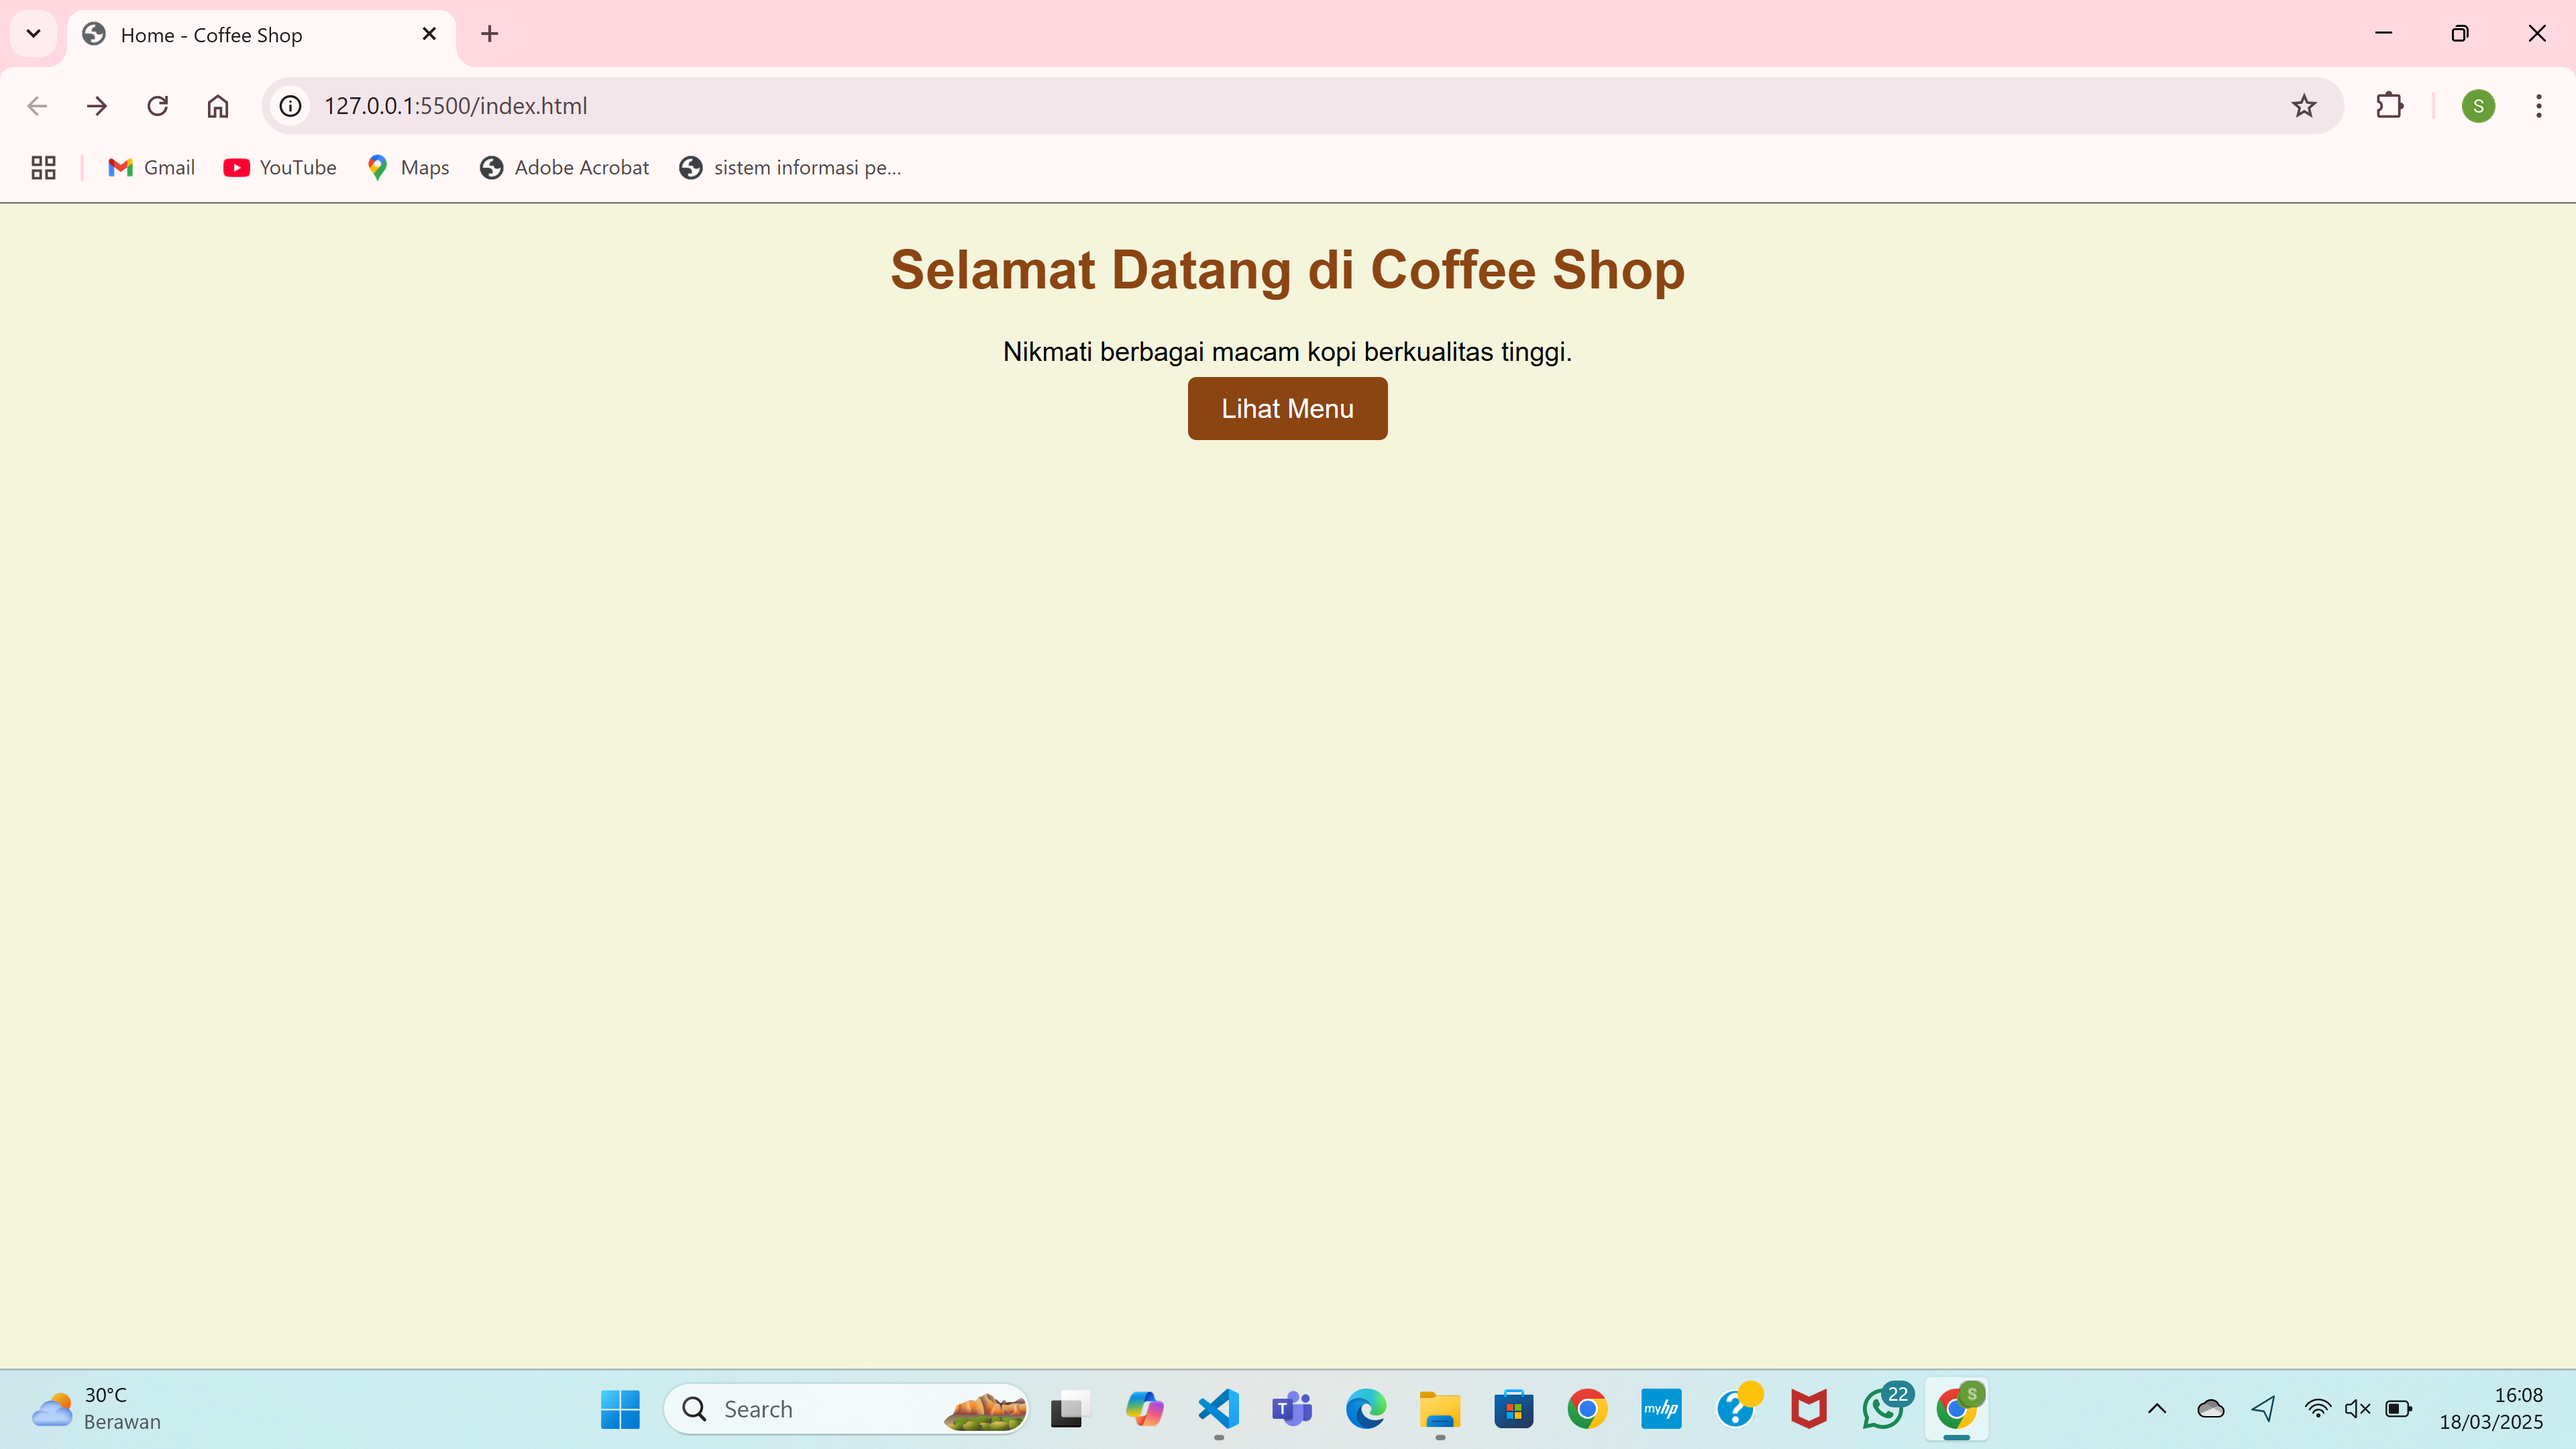
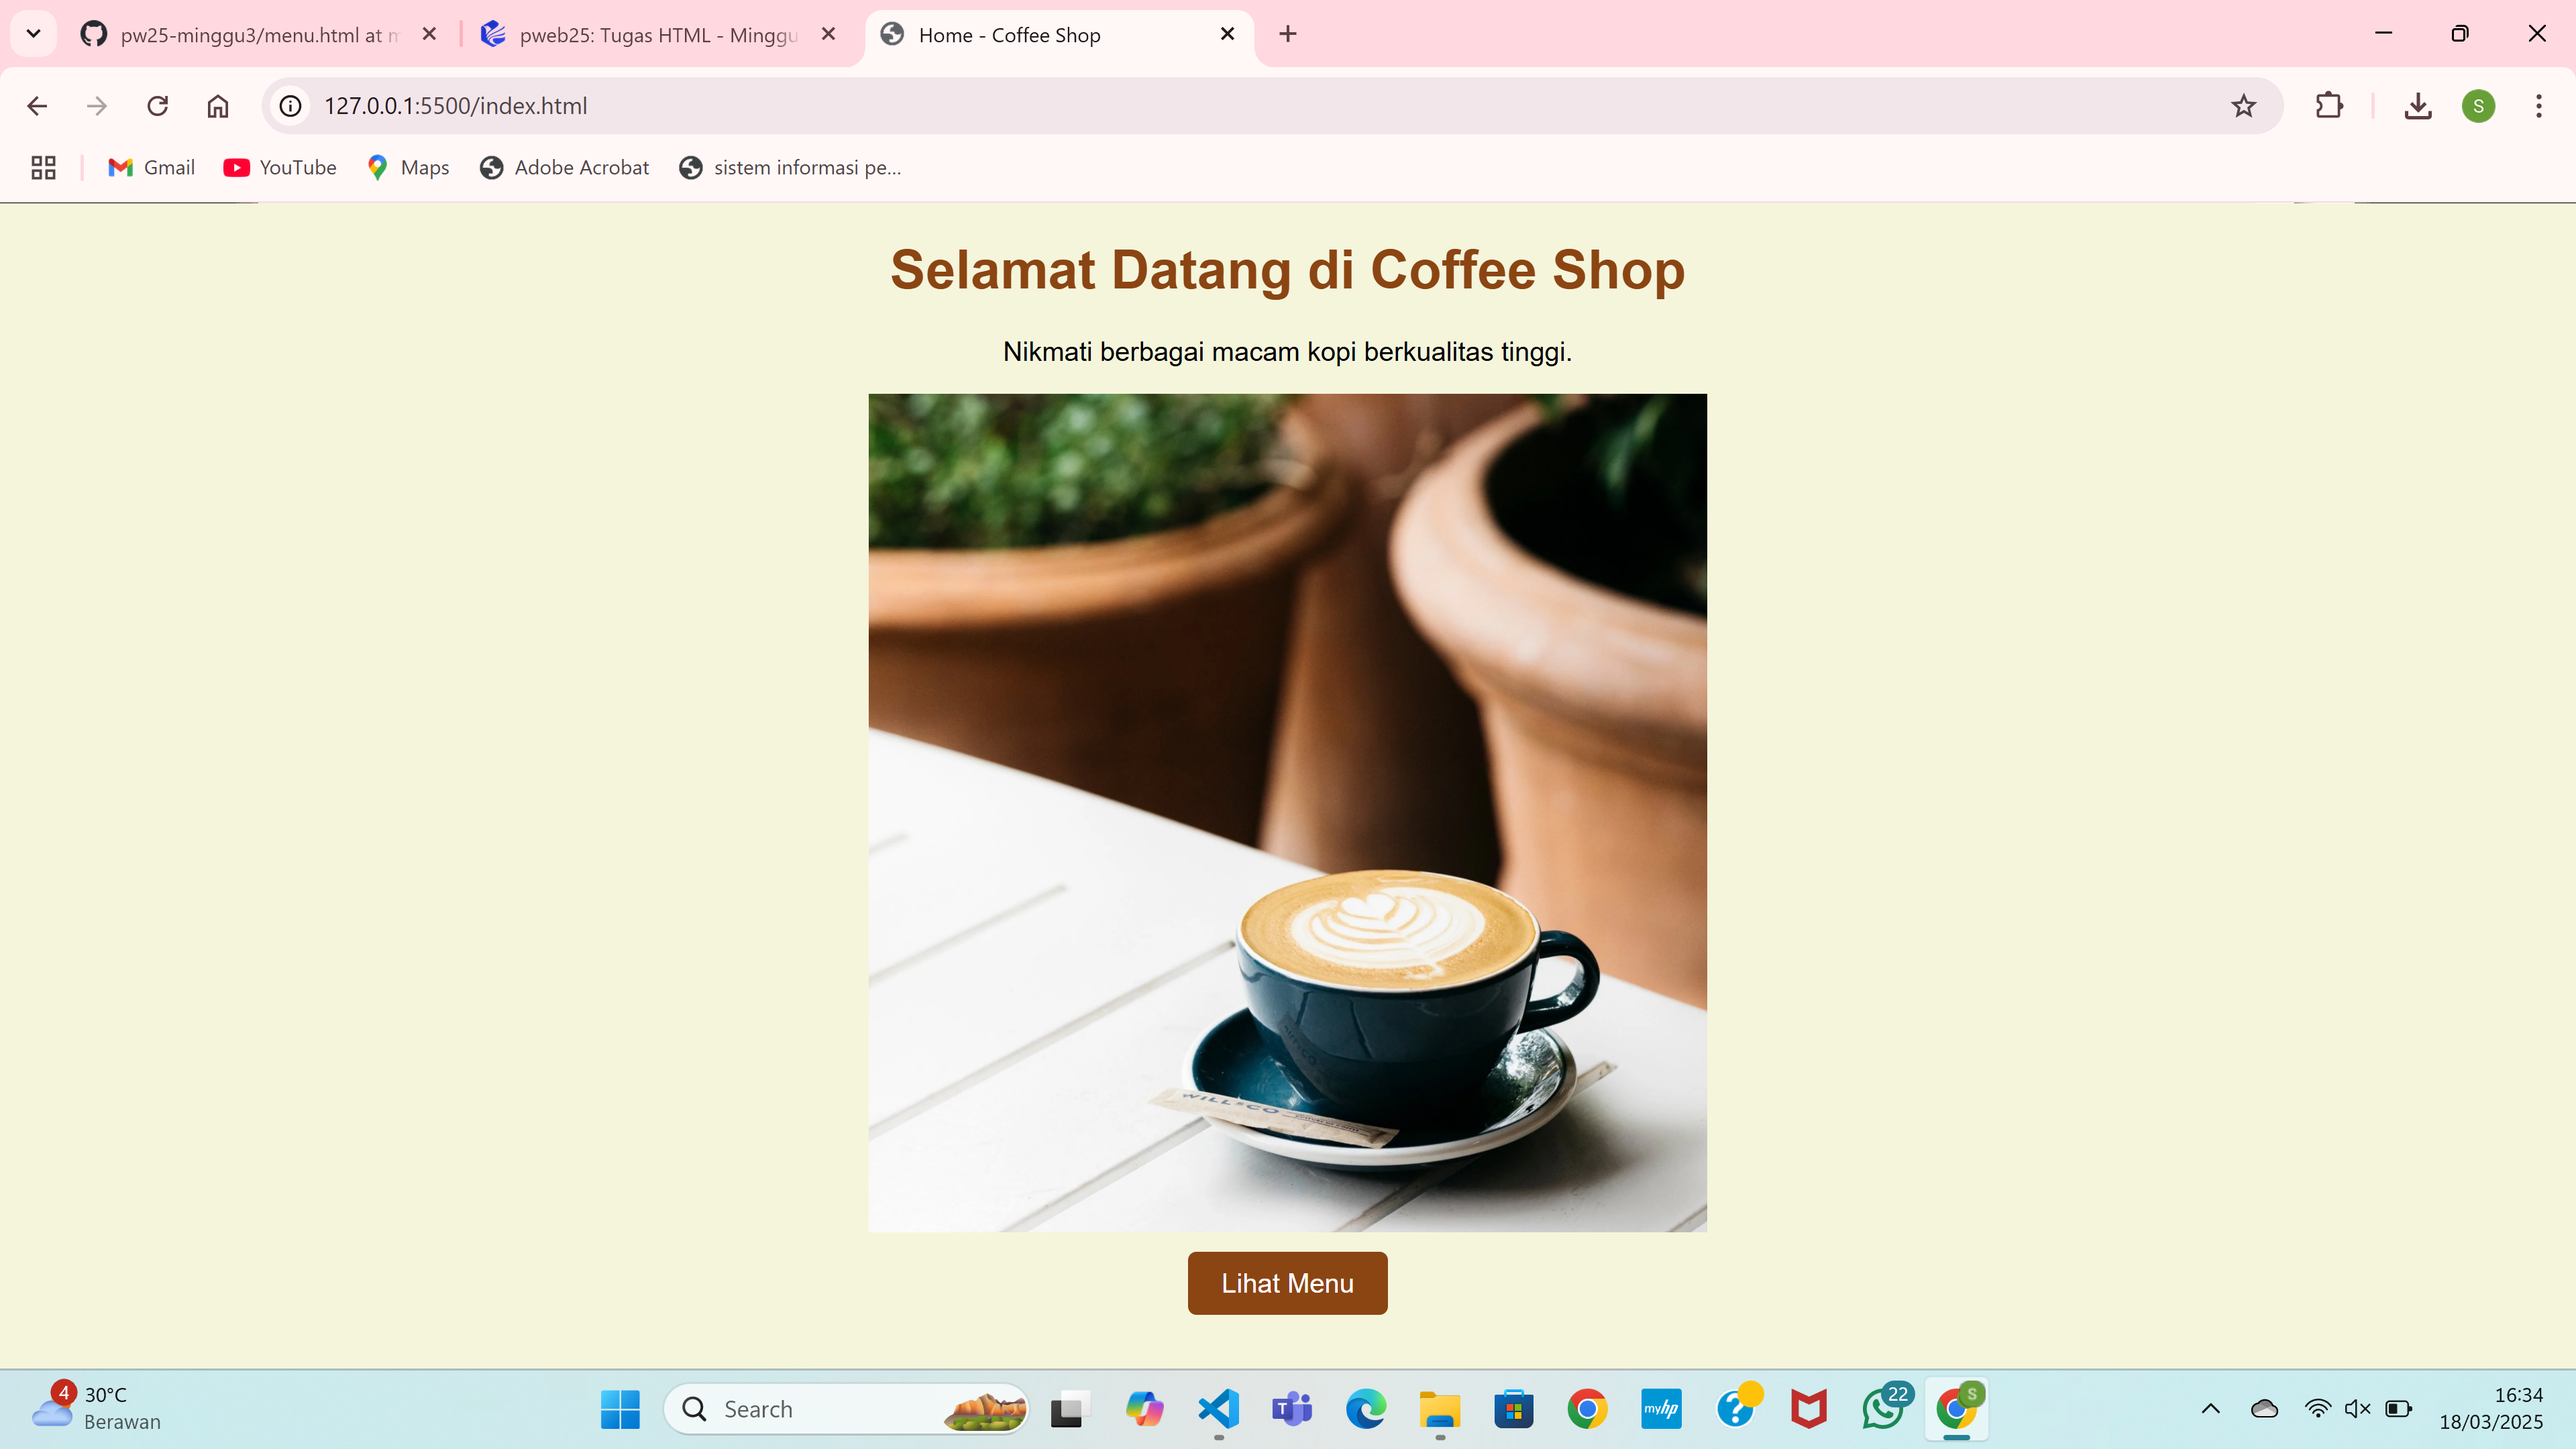
tugas web

diff --git a/index.html b/index.html
@@ -25,6 +25,13 @@
   <body>
     <h1>Selamat Datang di Coffee Shop</h1>
     <p>Nikmati berbagai macam kopi berkualitas tinggi.</p>
+    <img
+      src="assets/img/coffe.webp"
+      alt="gambar coffe"
+      width="500"
+      height="500"
+    />
+    <br /><br />
     <a href="menu.html">Lihat Menu</a>
   </body>
 </html>
